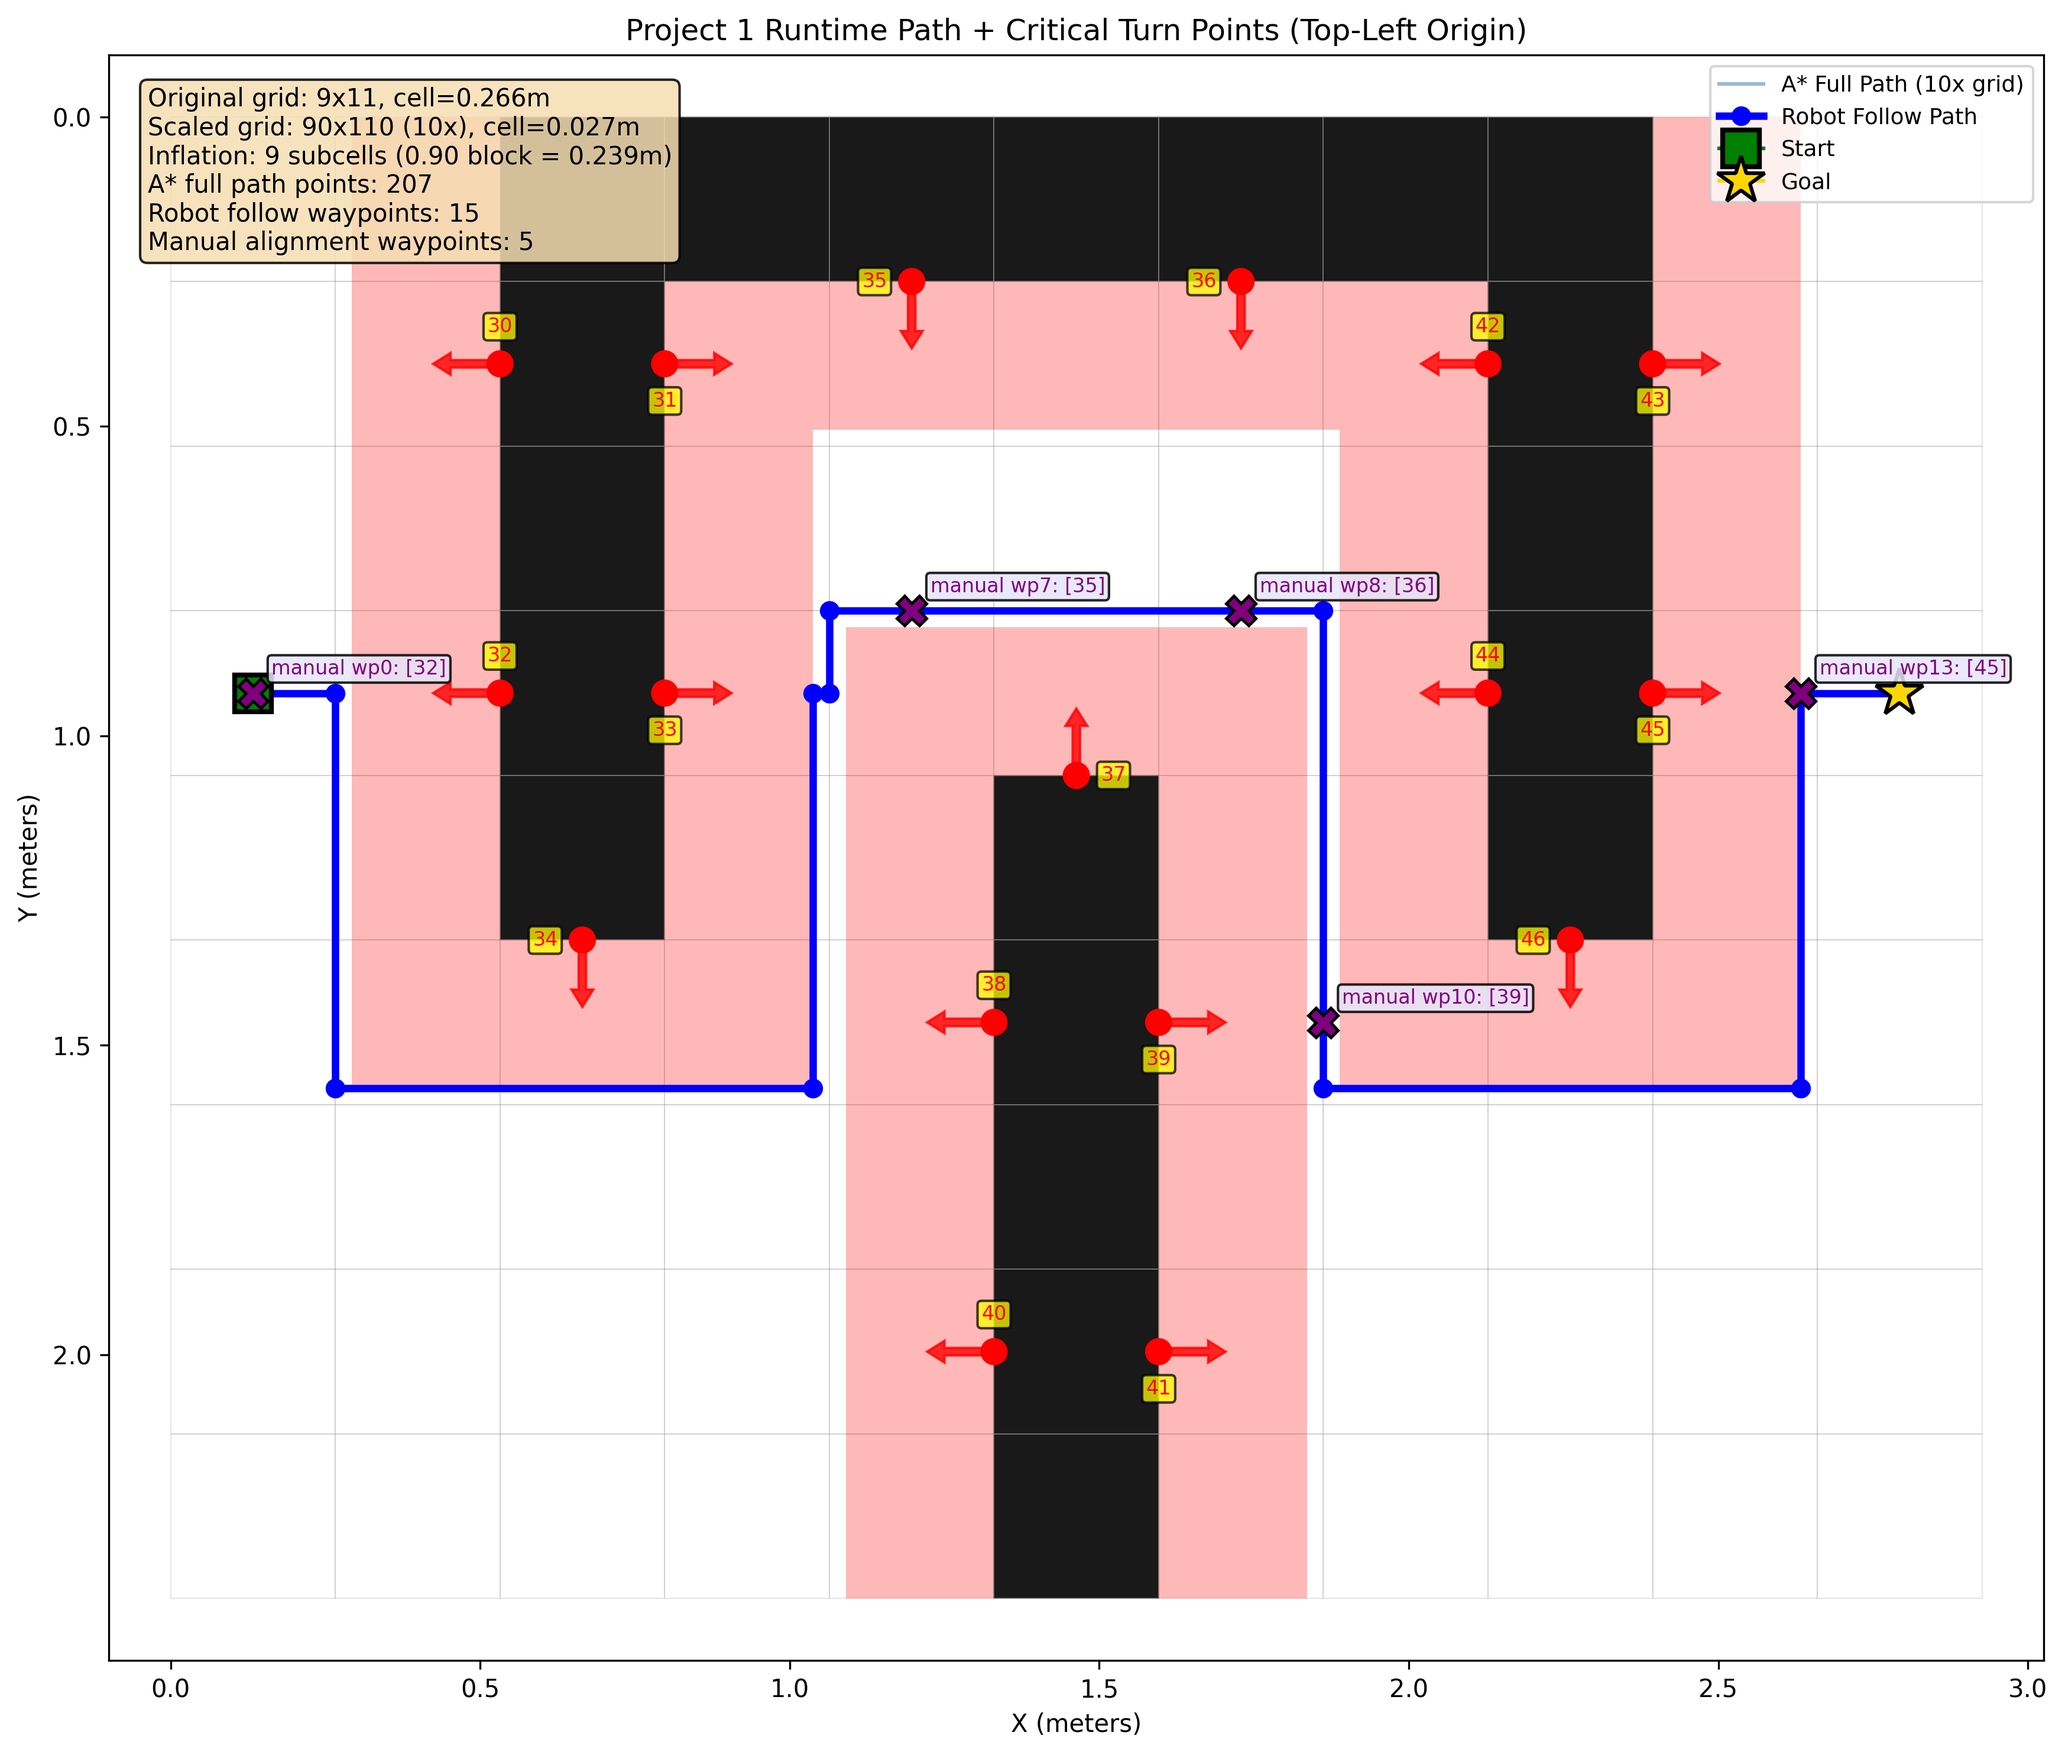
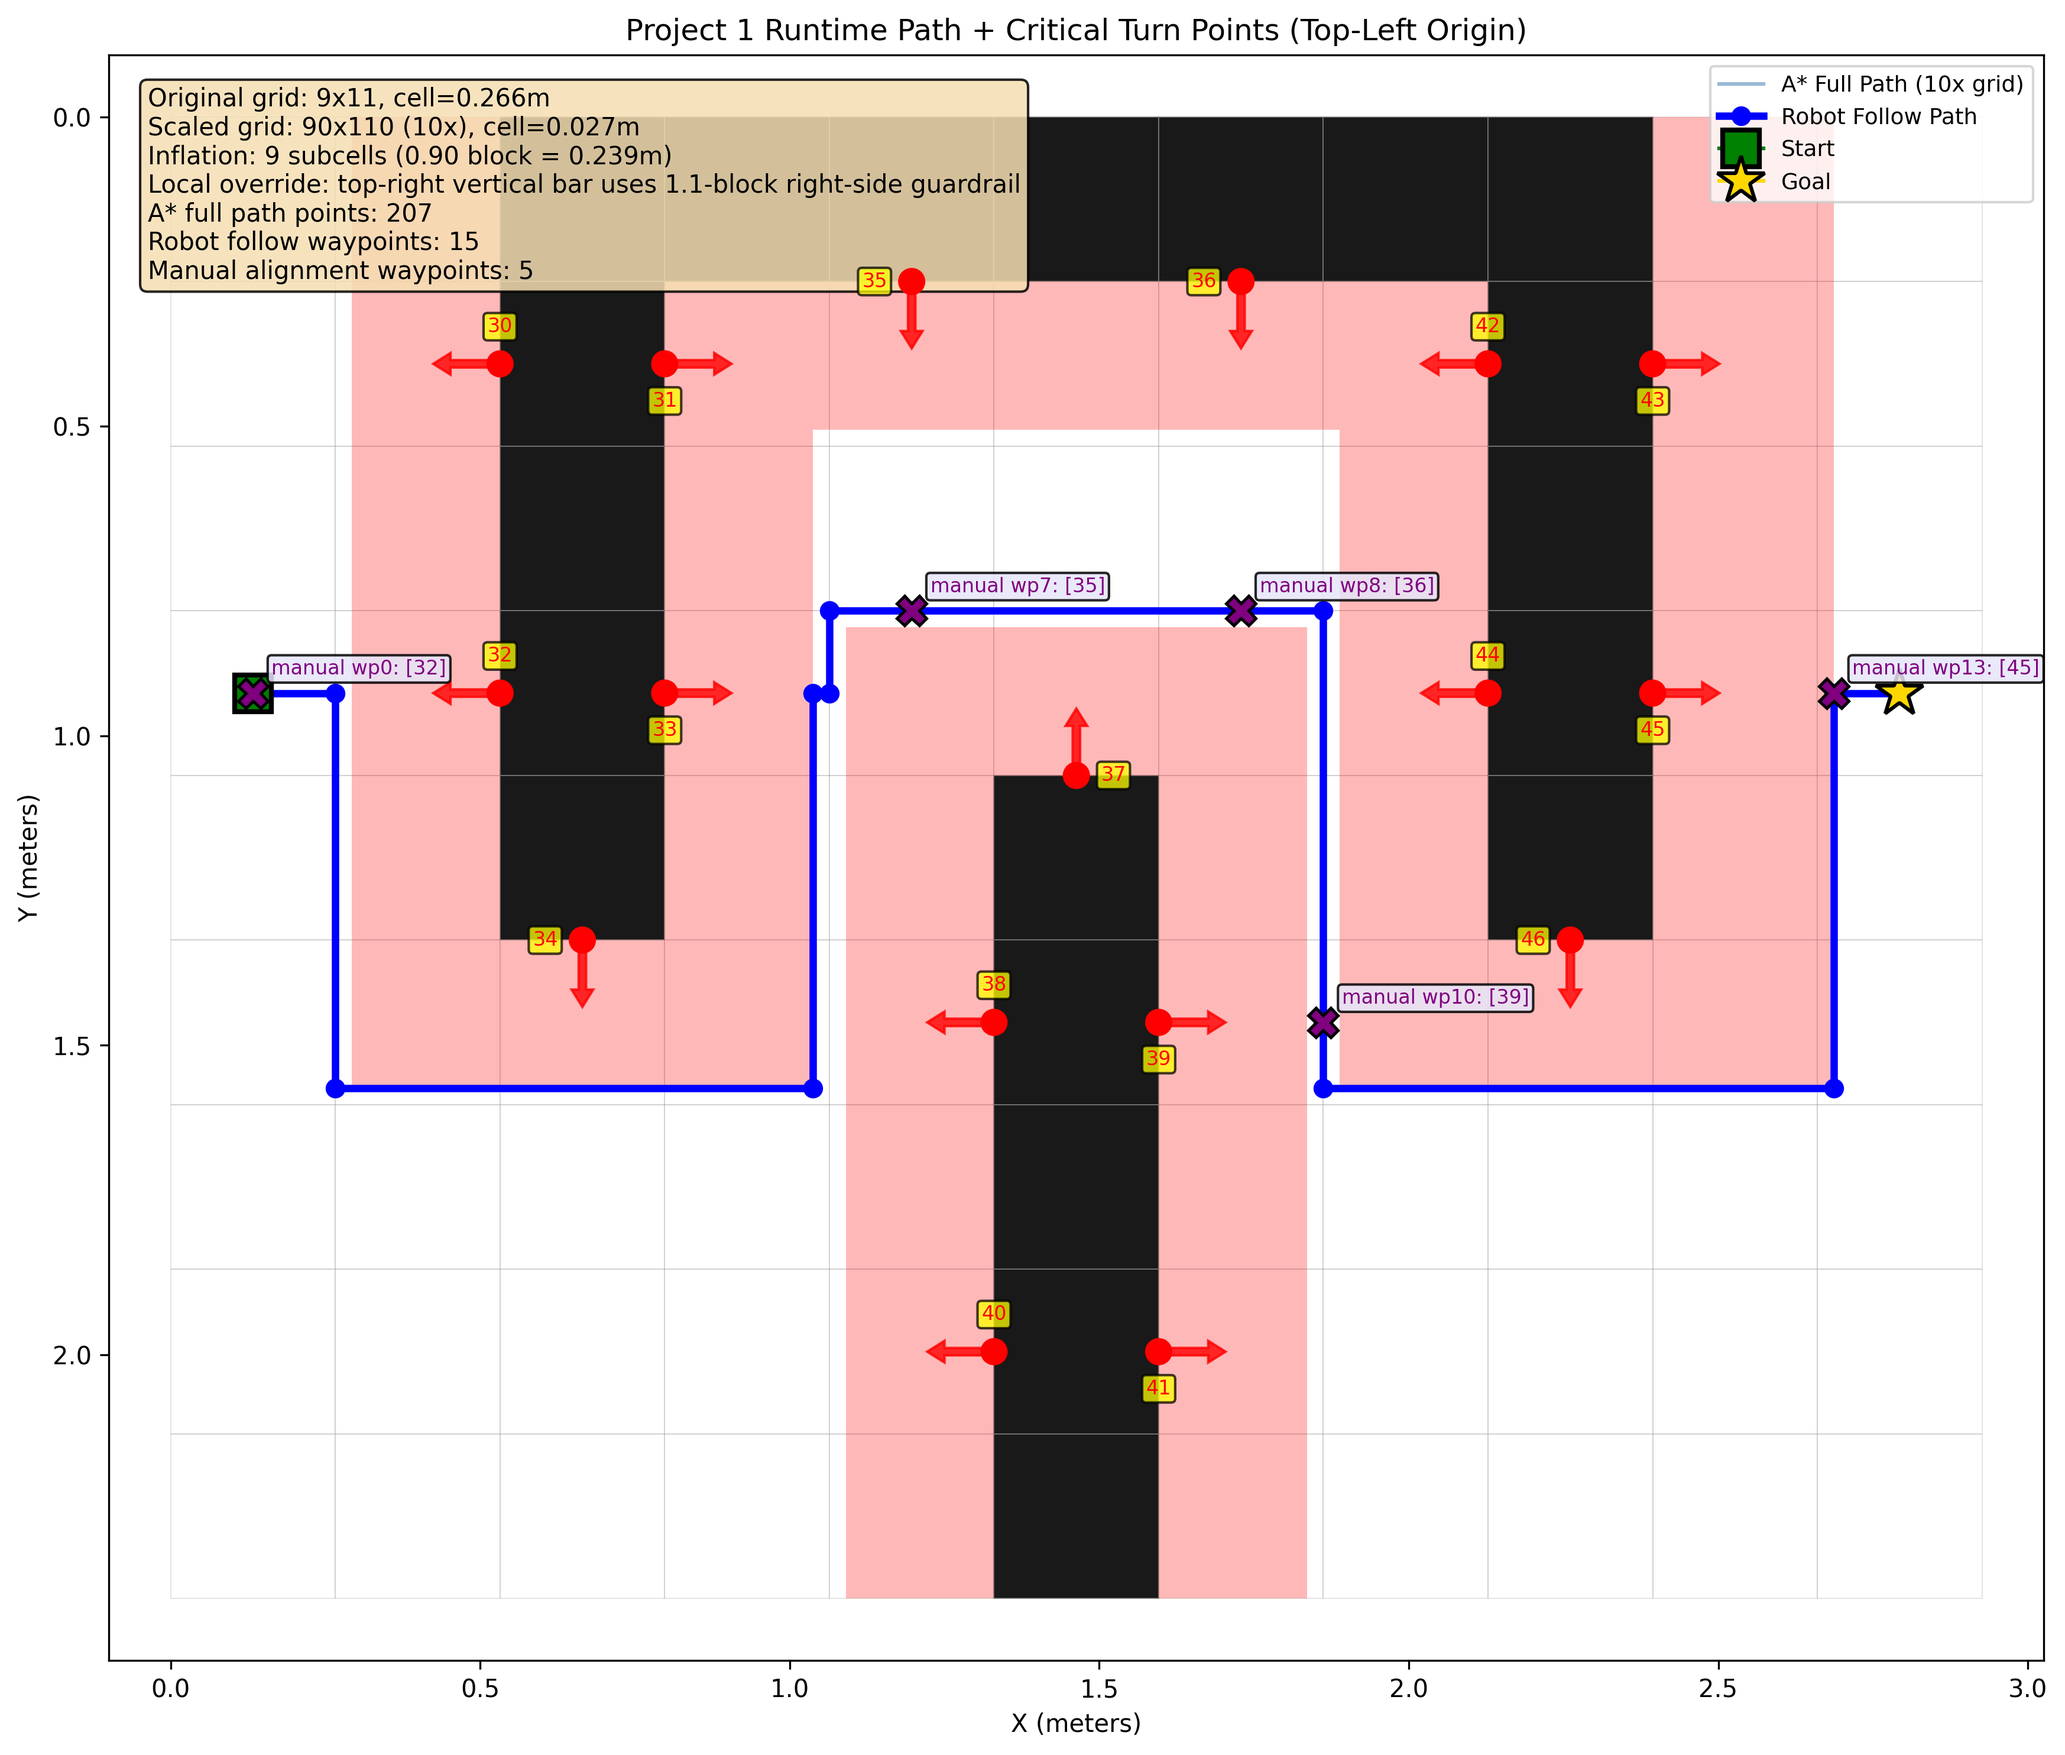
added additional top right guard

Changed region(s): [[0.0624, 0.031, 0.4993, 0.1859], [0.8425, 0.093, 0.9986, 0.6197]]

diff --git a/project1_nav.py b/project1_nav.py
@@ -58,6 +58,7 @@ TAG_SIZE_M = 0.200
 CELL_SIZE_M = 0.266
 PLANNING_SCALE = 10         # 10x subcell grid
 INFLATION_SUBCELLS = 9      # 0.9 block barrier at 10x scale
+TOP_RIGHT_RIGHT_INFLATION_SUBCELLS = 11  # local override: 1.1 blocks on right side
 CENTER_YAW_SIGN = -1.0      # robot-specific yaw sign convention
 
 # Top-left origin occupancy map (0=free, 1=obstacle)
@@ -160,6 +161,37 @@ def inflate_obstacles(grid: np.ndarray, inflation_cells: int) -> np.ndarray:
         c0 = max(0, c - inflation_cells)
         c1 = min(W, c + inflation_cells + 1)
         out[r0:r1, c0:c1] = 1
+    out = apply_top_right_guardrail_override(out, inflation_cells)
+    return out
+
+
+def apply_top_right_guardrail_override(inflated: np.ndarray, base_inflation_cells: int) -> np.ndarray:
+    """
+    Keep 0.9-block inflation globally, but increase right-side guardrail to 1.1
+    near the top-right vertical obstacle bar at original cells (rows 0..4, col 8).
+    """
+    target_right = TOP_RIGHT_RIGHT_INFLATION_SUBCELLS
+    if target_right <= base_inflation_cells:
+        return inflated
+
+    out = inflated.copy()
+    H, W = out.shape
+    extra_right = target_right - base_inflation_cells
+    scale = PLANNING_SCALE
+
+    # Hardcoded region from the known map: vertical bar at col 8, rows 0..4.
+    for rr in range(0, 5):
+        cc = 8
+        r_block0 = rr * scale
+        r_block1 = r_block0 + (scale - 1)
+        c_block1 = cc * scale + (scale - 1)
+
+        r0 = max(0, r_block0 - base_inflation_cells)
+        r1 = min(H, r_block1 + base_inflation_cells + 1)
+        c0 = max(0, c_block1 + base_inflation_cells + 1)
+        c1 = min(W, c_block1 + target_right + 1)
+        if c1 > c0:
+            out[r0:r1, c0:c1] = 1
     return out
 
 

diff --git a/visualize_grid.py b/visualize_grid.py
@@ -209,6 +209,7 @@ def visualize_grid_and_path() -> None:
     info.append(f"Original grid: {rows}x{cols}, cell={CELL_SIZE_M:.3f}m")
     info.append(f"Scaled grid: {doubled_occ.shape[0]}x{doubled_occ.shape[1]} ({PLANNING_SCALE}x), cell={doubled_cell:.3f}m")
     info.append(f"Inflation: {INFLATION_SUBCELLS} subcells ({INFLATION_SUBCELLS/PLANNING_SCALE:.2f} block = {INFLATION_SUBCELLS*doubled_cell:.3f}m)")
+    info.append("Local override: top-right vertical bar uses 1.1-block right-side guardrail")
     info.append(f"A* full path points: {len(path_full)}")
     info.append(f"Robot follow waypoints: {len(path_follow)}")
     info.append(f"Manual alignment waypoints: {len(manual_wp_tags)}")

diff --git a/PROJECT1_NAV_WORKFLOW.md b/PROJECT1_NAV_WORKFLOW.md
@@ -19,10 +19,12 @@ This document explains how `project1_nav.py` works, key components, and the exec
 ### 1) Grid preparation and safety inflation
 - `double_grid_resolution(grid, scale=10)` expands each cell into a 10x10 subcell block.
 - `inflate_obstacles(grid, inflation_cells=9)` inflates obstacles by 9 subcells.
+- Hardcoded local override: for the top-right vertical bar (original col `8`, rows `0..4`), the guardrail on its **right side** is extended to `1.1` blocks (`11` subcells).
 
 Why this matters:
 - Robot footprint is approximately `1.5 x 1.0` cubes.
 - Inflating by 9 subcells at 10x scale gives a `0.9 block` barrier (`0.2394 m`) around obstacles.
+- The top-right vertical bar has extra right-side margin to avoid boundary grazing in that corridor.
 
 ### 2) Path planner
 - `GridMap`: occupancy access, bounds checks, and grid->world conversion.
